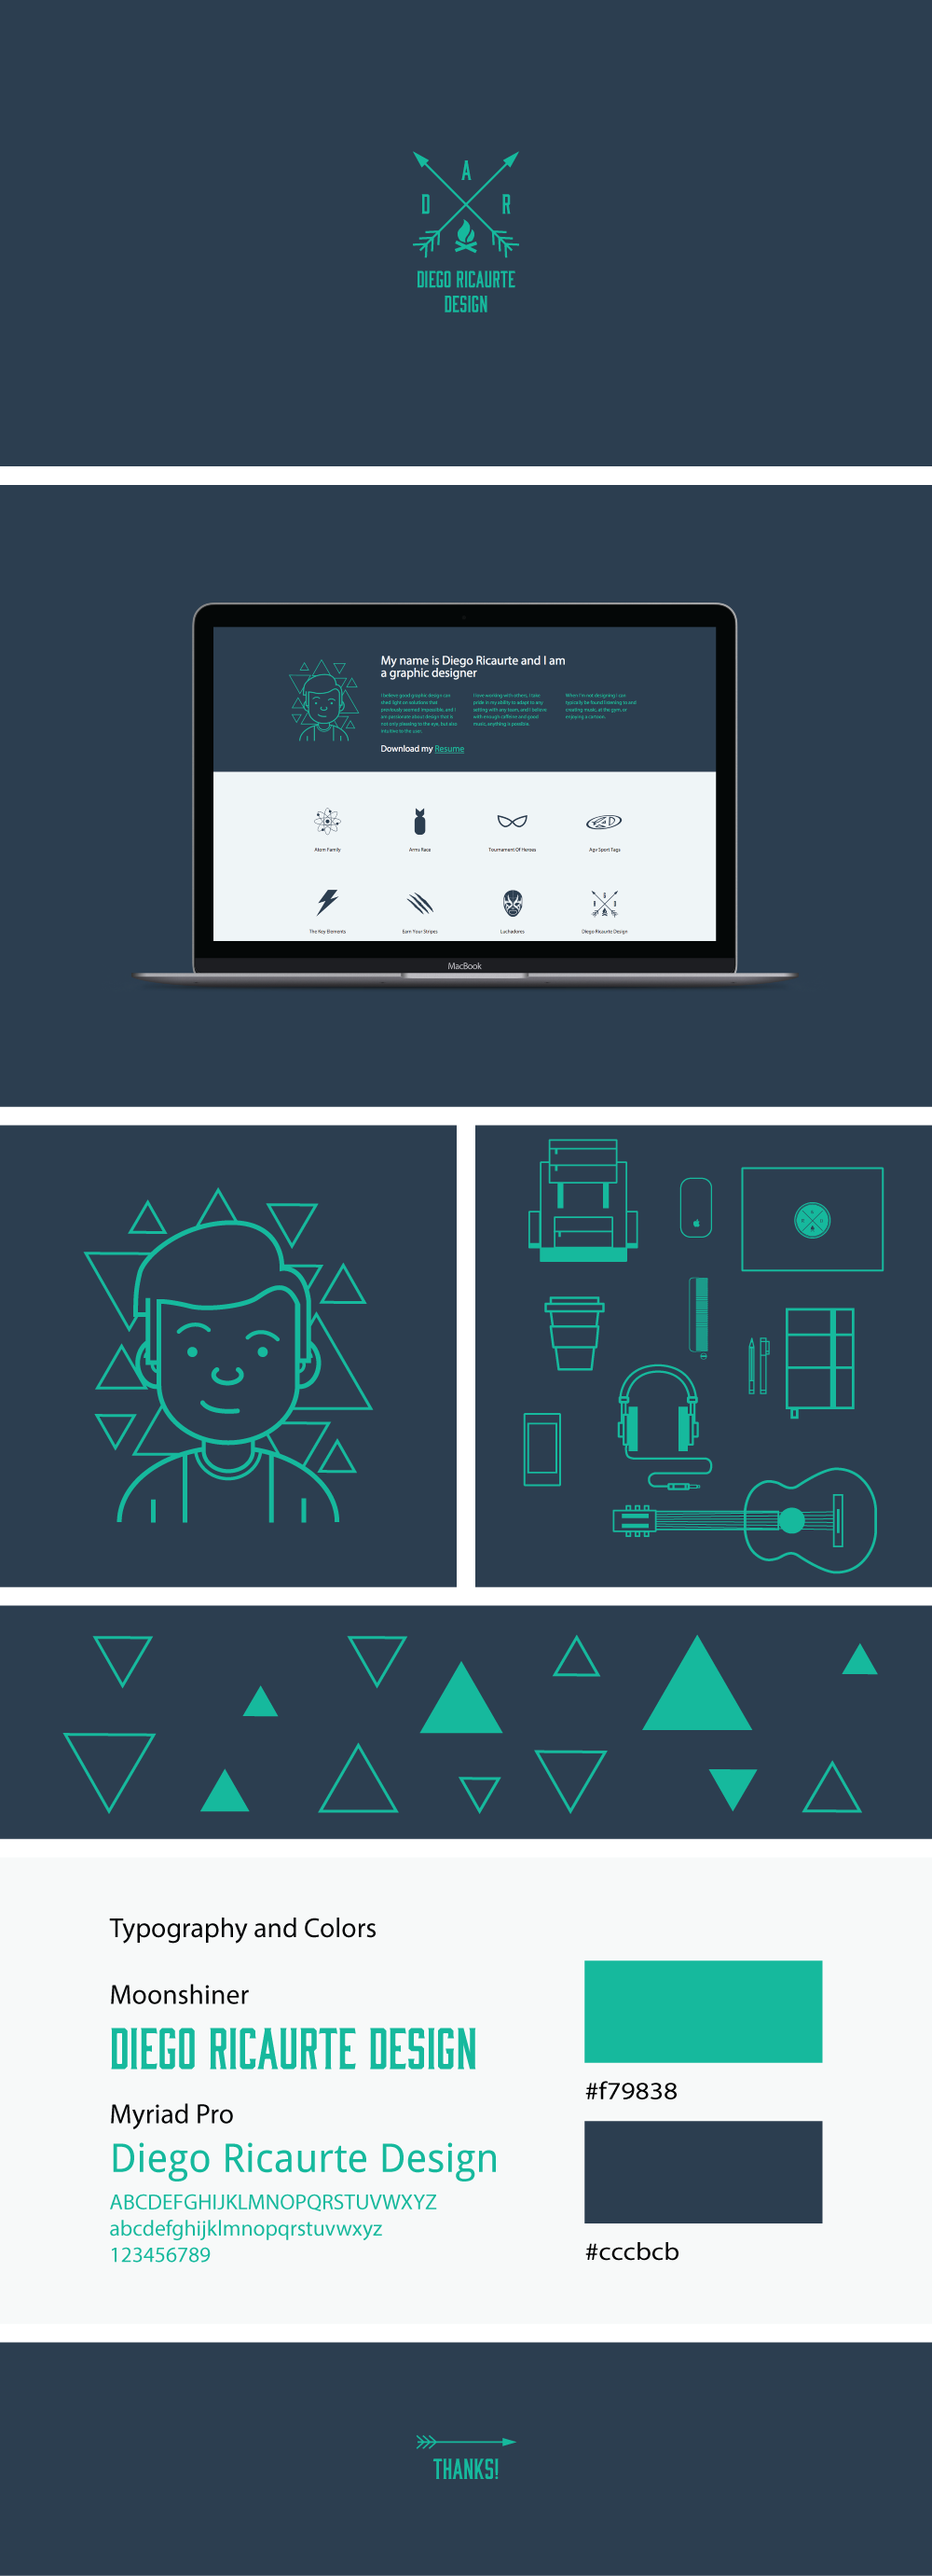
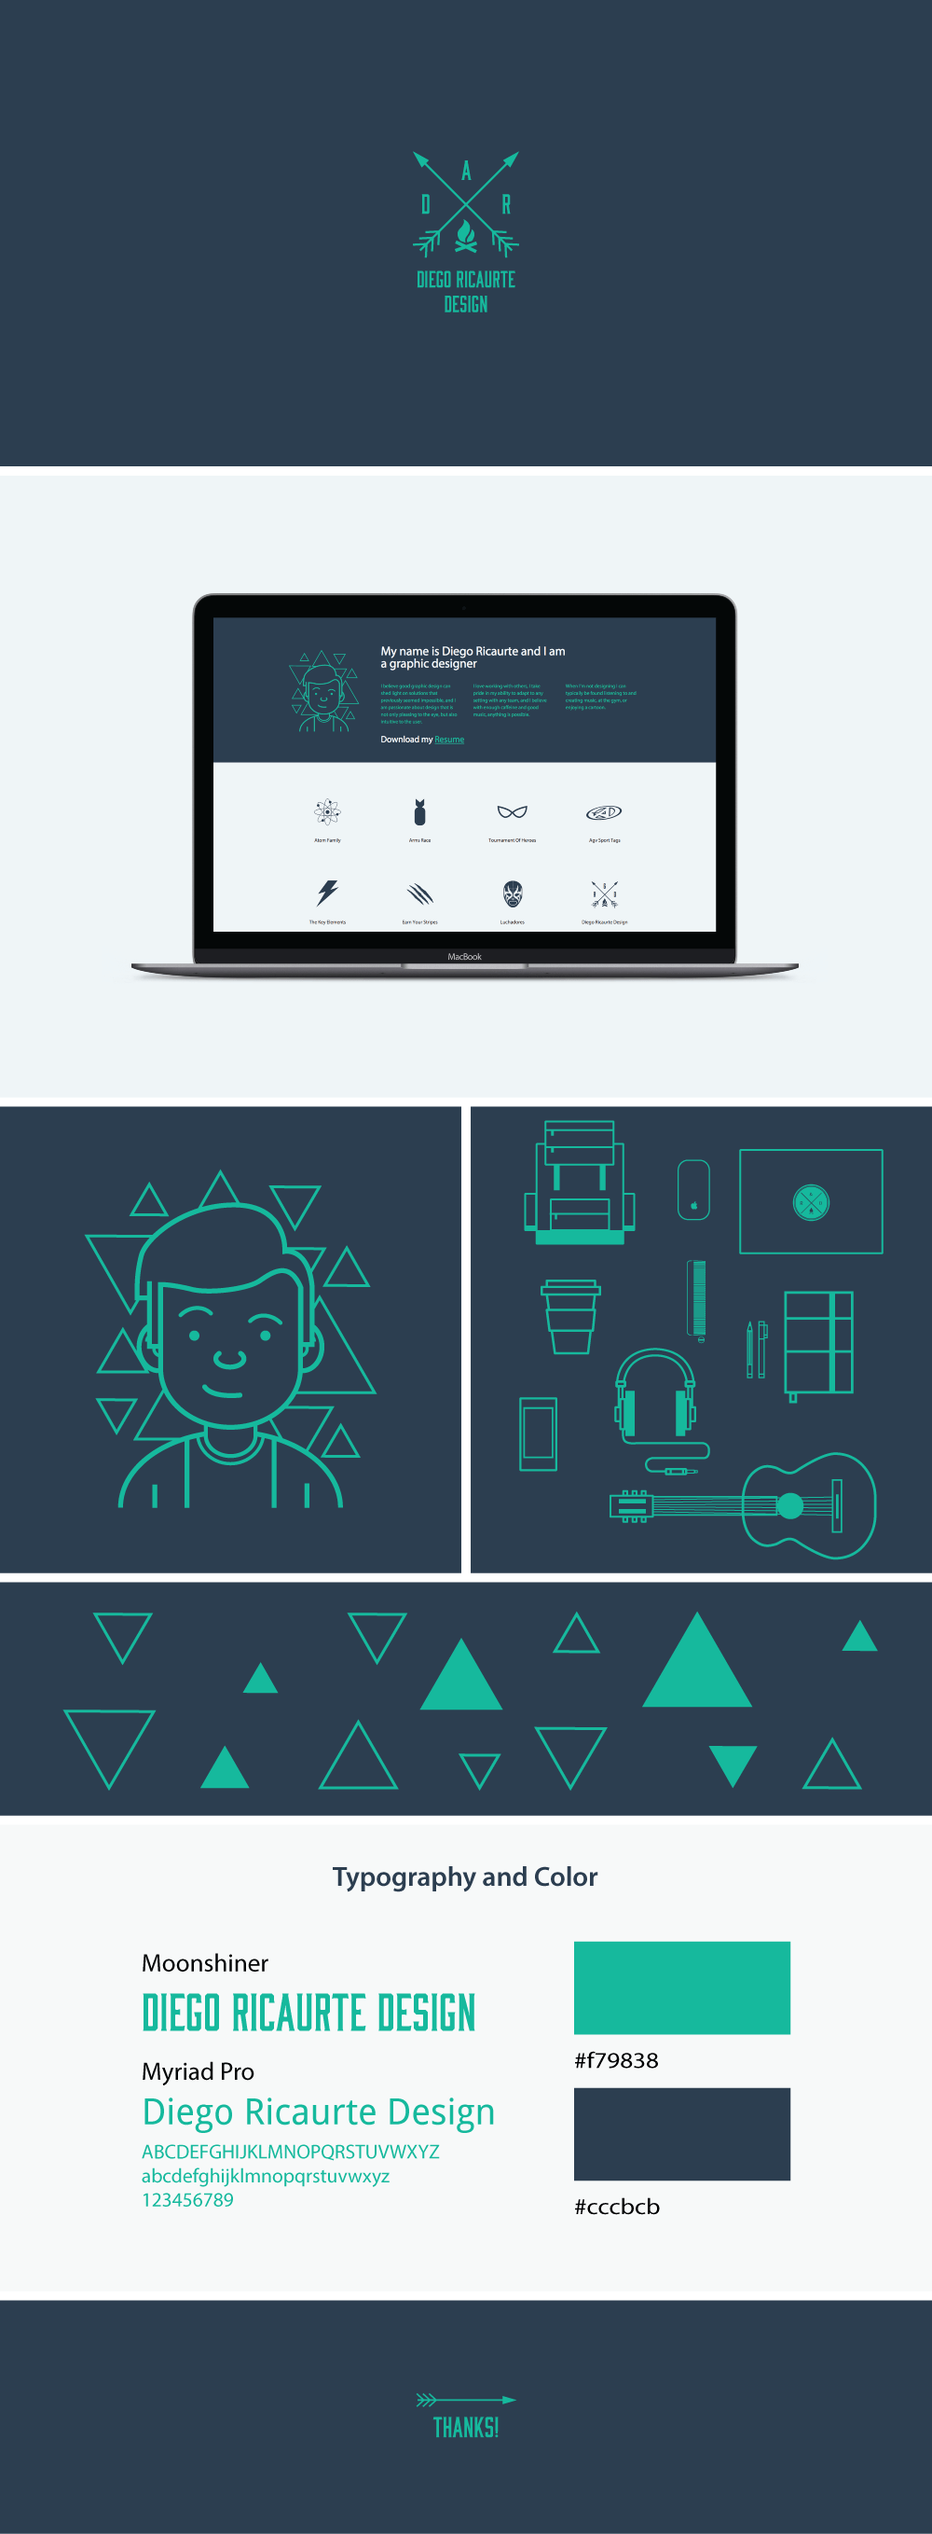
Portfolio Updates
Removed Atom Family temporarily

diff --git a/style/style.css b/style/style.css
@@ -149,17 +149,20 @@ section .centered {
 [1. Welcome]
 -------------------------------------------------------------------*/
 
-.splashimage { 
-  padding-top: 225px;
-  padding-bottom: 225px;
-  text-align: center;
-  color: #f8f8f8;
+.sectionsplashimage { 
   background: url(../images/splashimage.jpg) no-repeat center center;
   background-attachment: fixed;
   background-position: center;
   background-repeat: no-repeat;
   background-size: cover;
   min-width: 100%;
+  }
+
+.indexsignaturecontainer{ 
+  padding-top: 225px;
+  padding-bottom: 225px;
+  text-align: center;
+  color: #f8f8f8;
   }
 
 .indexsignature{
@@ -650,11 +653,16 @@ input, textarea {
 }
 
 @media only screen and (max-device-width: 1024px) {
-    .splashimage {
-        background-attachment: scroll;
+    .sectionsplashimage {
+      background: url(../images/splashimage2.jpg) no-repeat center center;
+      background-attachment: scroll;
+      background-position: center;
+      background-repeat: no-repeat;
+      background-size: cover;
+      min-width: 100%;
     }
   	.skillsimage {
-        background-attachment: scroll;
+      background-attachment: scroll;
     }}
 @media only screen and (max-width: 768px) { .navbar-flat li { display: inline-block; 
   } }

diff --git a/index.php b/index.php
@@ -7,8 +7,8 @@
 	<!--Loader-->
 	<div class="loader"></div>
 	<!--Loader-->
-	<section id="welcome">
-		<div class="container splashimage">
+	<section id="welcome" class="sectionsplashimage">
+		<div class="container indexsignaturecontainer">
 			<div class="row">
 				<div class="col-xs-10 centered">
 					<div>
@@ -229,7 +229,7 @@
 						</div>
 					</a>
 	            </div>
-				<div class="col-xs-12 col-sm-6 col-md-4 col-lg-3 thumb">
+<!-- 				<div class="col-xs-12 col-sm-6 col-md-4 col-lg-3 thumb">
 	                <a href="atom-family-spread.php">
 						<div class="figure cap-bot">
 							<img class="thumbimage img-responsive centered" src="images/portfolio-thumbs/atom-family-thumb.png" alt="">						
@@ -238,7 +238,7 @@
 							</div>
 						</div>
 					</a>
-	            </div>
+	            </div> -->
 				<div class="col-xs-12 col-sm-6 col-md-4 col-lg-3 thumb">
 	                <a href="dr-design-spread.php">
 						<div class="figure cap-bot">
